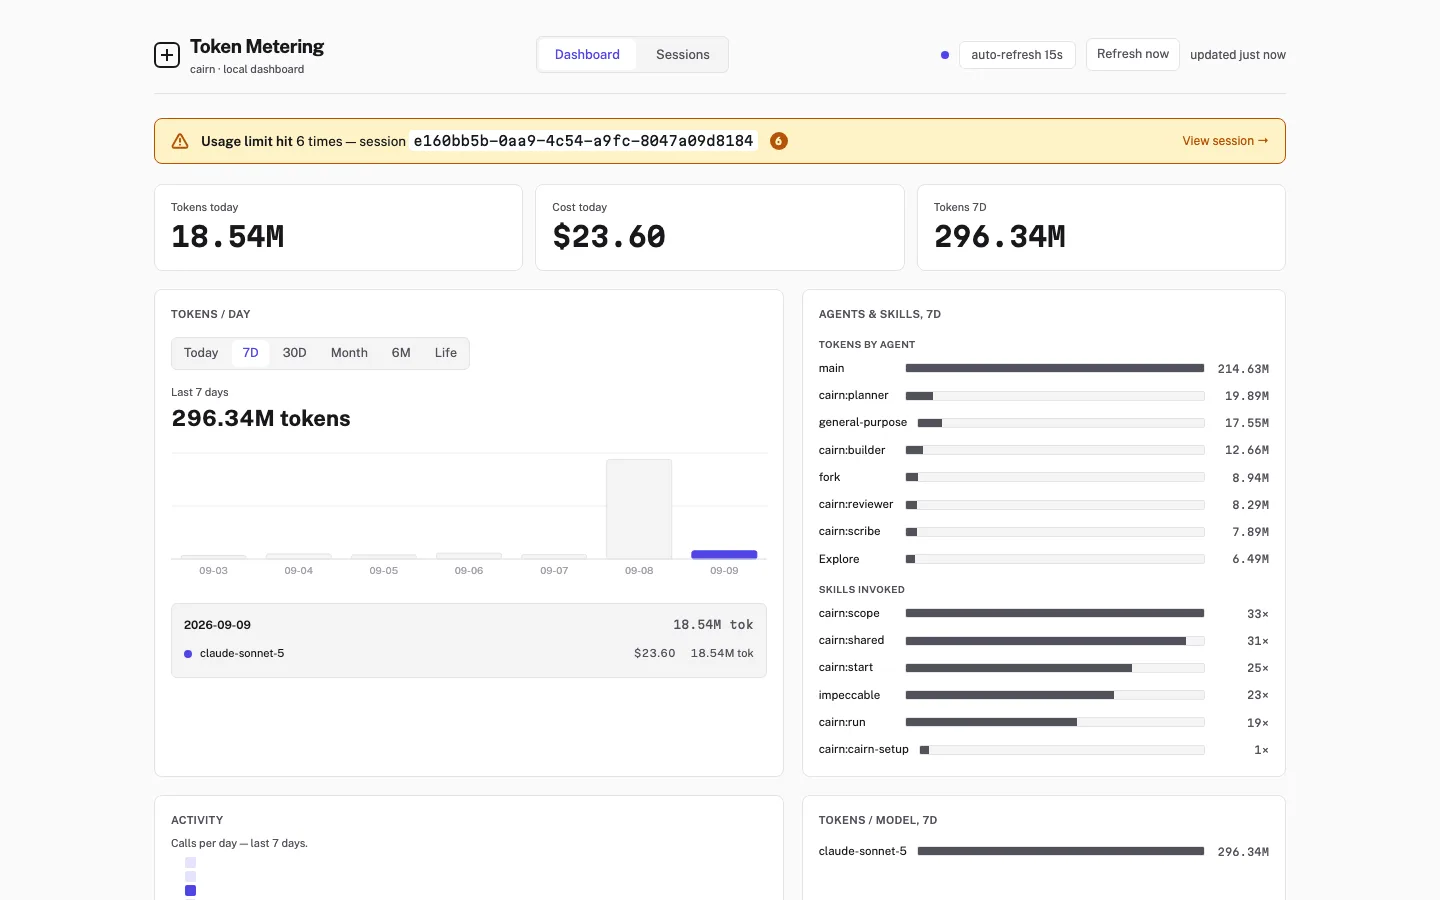
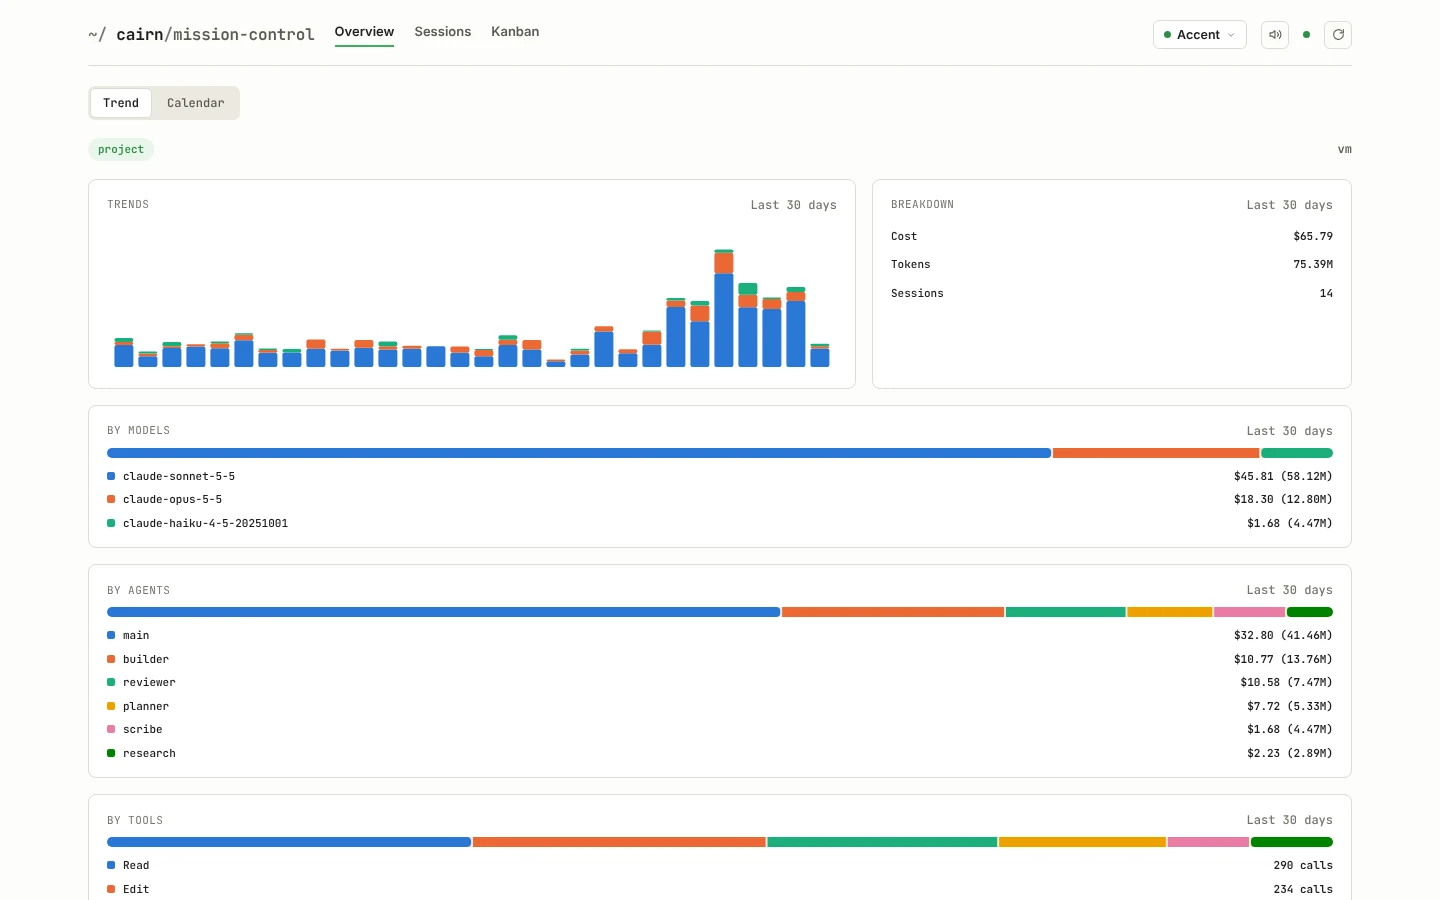
Update the landing page dashboard screenshot (#29)
Claude-Session: https://claude.ai/code/session_011JzGoqNfaPzc1gEB1CZQjN

diff --git a/docs/marketing/index.html b/docs/marketing/index.html
@@ -201,7 +201,7 @@
       <a href="#writes">what it writes</a>
       <a href="#proof">proof</a>
       <a class="always" href="https://github.com/jisundr/cairn-2.0">github</a>
-      <span class="version-tag">v0.51.9</span>
+      <span class="version-tag">v0.51.10</span>
     </nav>
   </div>
 </header>
@@ -386,7 +386,7 @@
       <p class="lede">Don't take cairn's numbers on faith either. Run <code>/cairn-mc</code> to start a local dashboard, scoped to your own machine, showing exactly what your sessions cost: tokens and dollars, per agent, per model, per skill, per call.</p>
       <div class="diff-panel shot">
         <div class="diff-tab"><span class="dot"></span> 127.0.0.1 · token metering</div>
-        <img src="assets/token-dashboard.webp" alt="cairn's local token-metering dashboard, showing today's tokens and cost, a 7-day chart, and per-agent and per-skill breakdowns" loading="lazy">
+        <img src="assets/token-dashboard.webp" alt="cairn's local token-metering dashboard, showing a 30-day stacked token trend with cost, tokens and session totals, and breakdowns by model, agent and tool" loading="lazy">
       </div>
       <p class="anon-note">The real dashboard UI, running against illustrative demo data (not a real session's numbers). It's local-only: no accounts, no cloud sync, nothing leaves your machine.</p>
     </div>
@@ -411,7 +411,7 @@
       <a href="https://github.com/jisundr/cairn-2.0/blob/main/CLAUDE.md">Developing cairn</a>
       <a href="https://github.com/jisundr/cairn-2.0/blob/main/docs/BUDGET.md">docs/BUDGET.md</a>
     </div>
-    <p class="footer-meta">cairn v0.51.9 · no accounts, no telemetry, no hosted service.</p>
+    <p class="footer-meta">cairn v0.51.10 · no accounts, no telemetry, no hosted service.</p>
   </div>
 </footer>
 

diff --git a/CHANGELOG.md b/CHANGELOG.md
@@ -4,6 +4,8 @@ Reverse-chronological, one entry per artifact-commit. Never loaded by the model 
 
 ## 2026-10-08
 
+- `docs/marketing/assets/token-dashboard.webp`: replaced the old "Token Metering" capture with the current mission-control Overview (30-day trend, by model / agent / tool), rendered from the shipped `plugin/mission-control/` server against seeded demo data; landing page alt text updated to match. Bumped `plugin/.claude-plugin/plugin.json` 0.51.9 → 0.51.10 (patch).
+
 - `docs/marketing/DESIGN-landing.md`: records the redesign (1040px column, hero stat strip, card sections, tint bands, new breakpoints). Bumped `plugin/.claude-plugin/plugin.json` 0.51.8 → 0.51.9 (patch).
 
 - `docs/marketing/index.html`: landing page redesign in the same Lockfile register — two-column hero with a copyable install command and a stat strip, cards for the paths, load classes, writes/never-writes and postures, tinted section bands, a wider 1040px column. Colour semantics unchanged. Bumped `plugin/.claude-plugin/plugin.json` 0.51.7 → 0.51.8 (patch).
